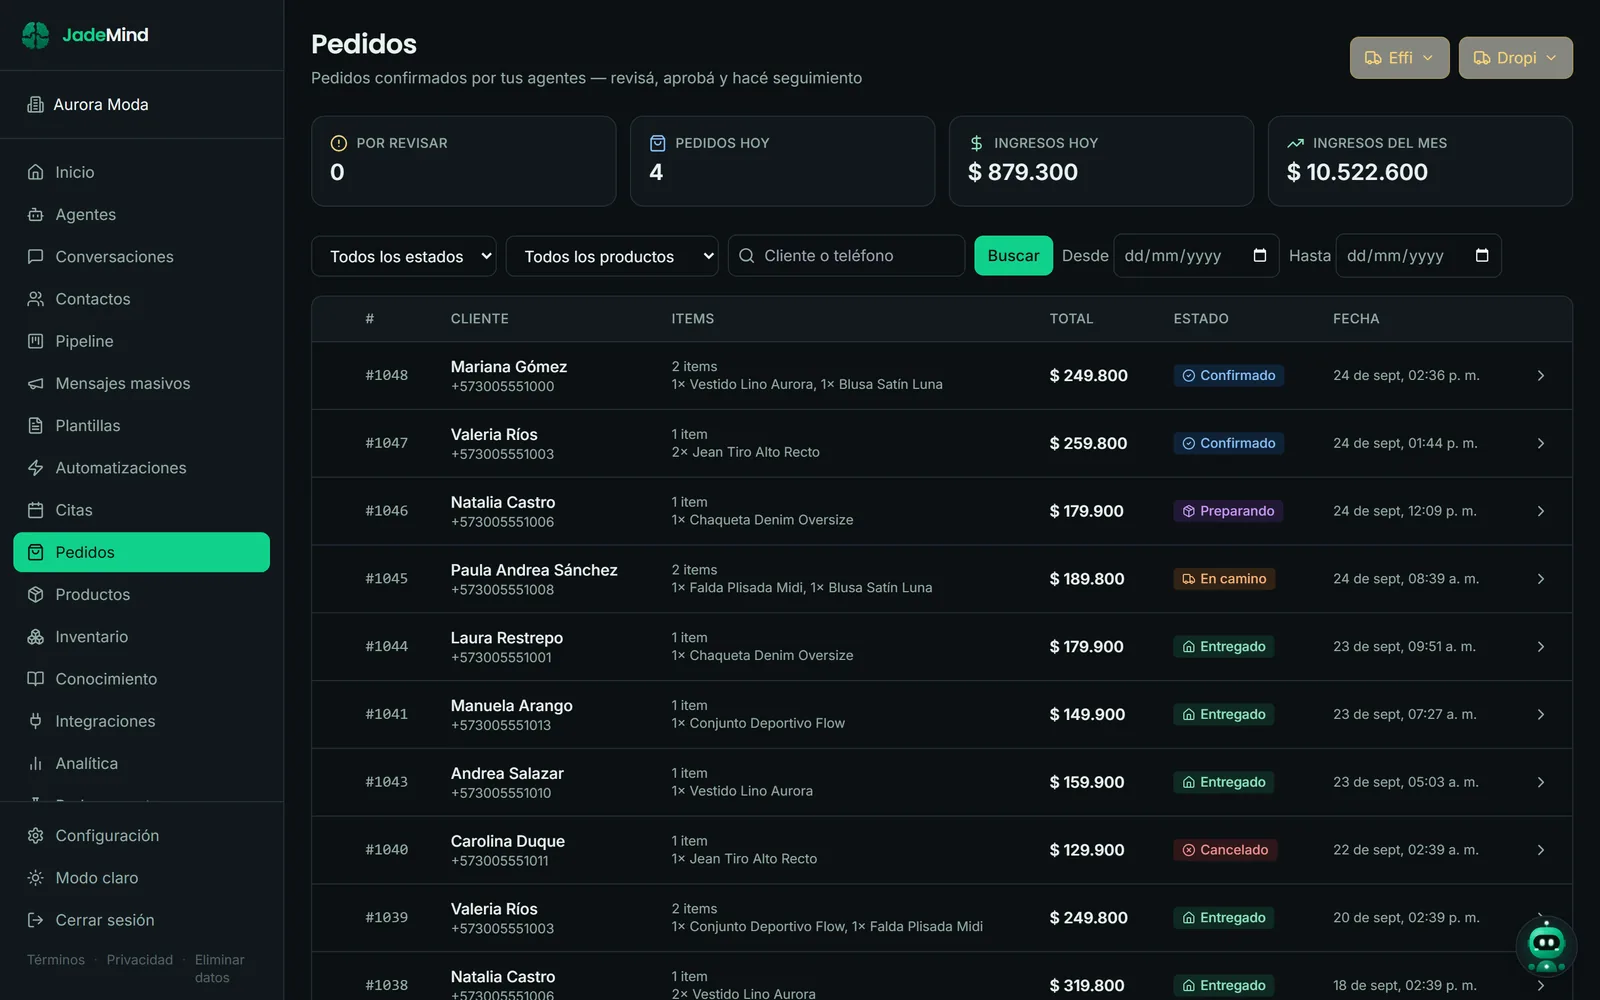
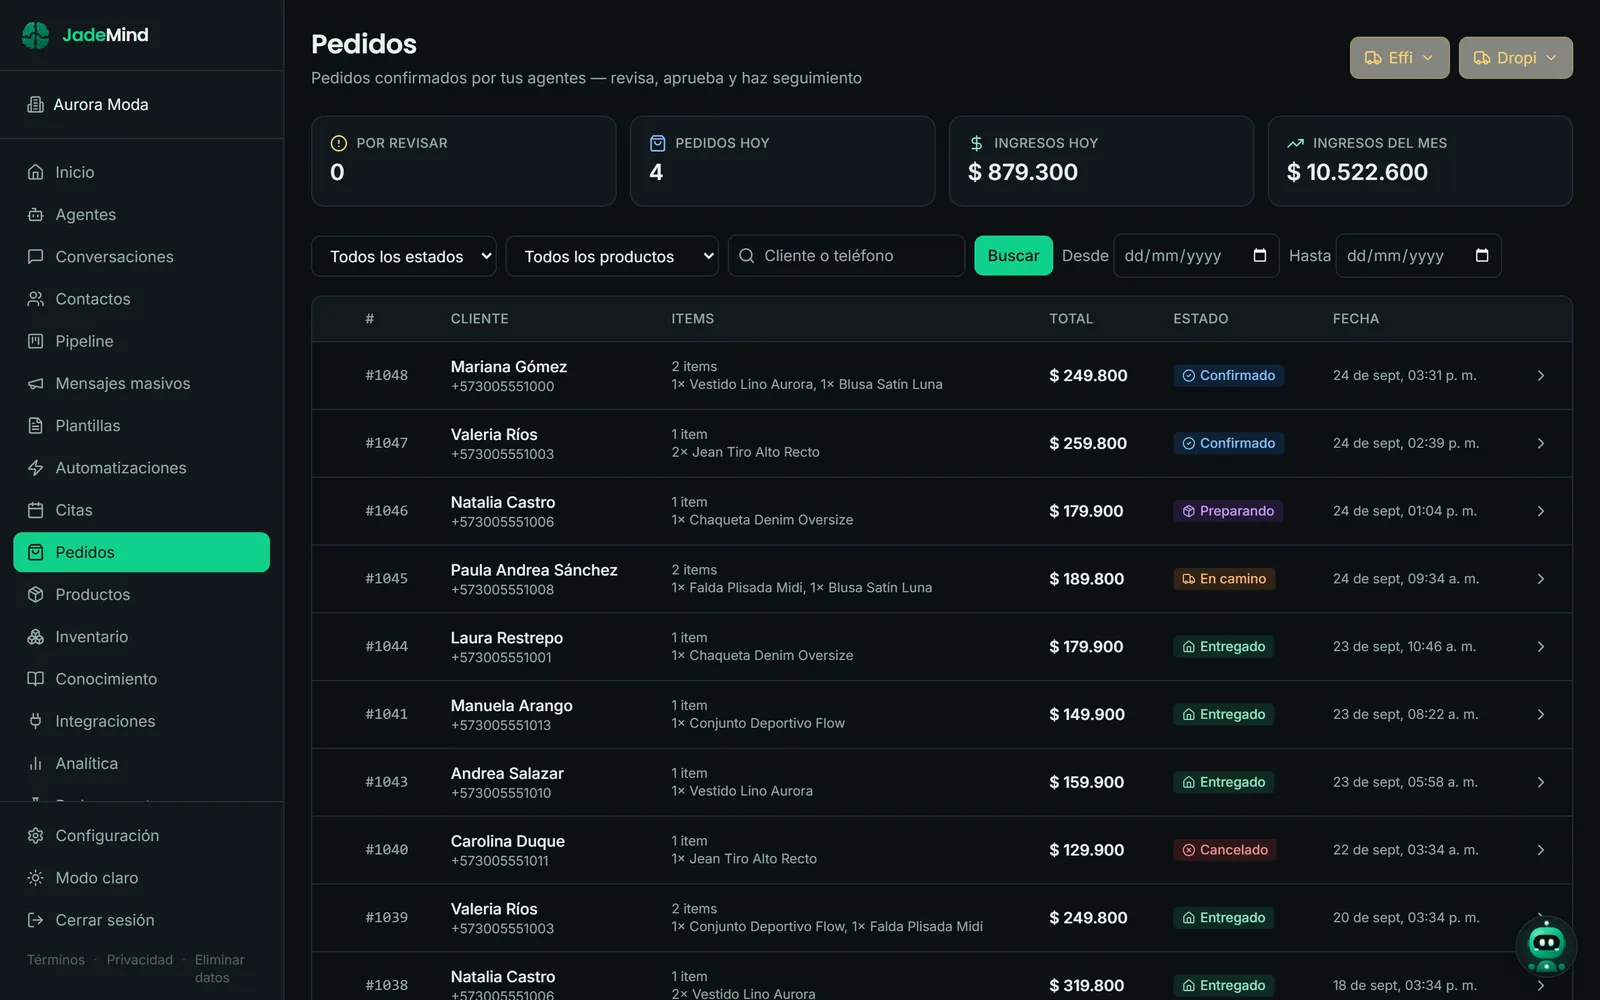
chore: capturas del panel con los textos en tuteo
el crm paso sus textos a tuteo; se rehicieron con scripts/capturas-panel.mjs
y llevan ?v=2 porque assets/ se sirve con 7 dias de cache.

diff --git a/index.html b/index.html
@@ -408,10 +408,10 @@
               </div>
             </div>
             <div class="panel-stage">
-              <img class="panel-shot is-active" data-panel-shot="inicio" src="assets/panel/inicio.webp" width="1600" height="1000" alt="Inicio del panel de JadeMind con conversaciones, mensajes, pedidos y citas del mes y el resumen de hoy" loading="lazy" decoding="async">
-              <img class="panel-shot" data-panel-shot="conversaciones" src="assets/panel/conversaciones.webp" width="1600" height="1000" alt="Bandeja de conversaciones de JadeMind con un chat de WhatsApp donde el agente toma un pedido" loading="lazy" decoding="async">
-              <img class="panel-shot" data-panel-shot="pedidos" src="assets/panel/pedidos.webp" width="1600" height="1000" alt="Lista de pedidos de JadeMind con estado, total y fecha de cada venta" loading="lazy" decoding="async">
-              <img class="panel-shot" data-panel-shot="agenda" src="assets/panel/agenda.webp" width="1600" height="1000" alt="Agenda semanal de JadeMind con las citas agendadas por el agente" loading="lazy" decoding="async">
+              <img class="panel-shot is-active" data-panel-shot="inicio" src="assets/panel/inicio.webp?v=2" width="1600" height="1000" alt="Inicio del panel de JadeMind con conversaciones, mensajes, pedidos y citas del mes y el resumen de hoy" loading="lazy" decoding="async">
+              <img class="panel-shot" data-panel-shot="conversaciones" src="assets/panel/conversaciones.webp?v=2" width="1600" height="1000" alt="Bandeja de conversaciones de JadeMind con un chat de WhatsApp donde el agente toma un pedido" loading="lazy" decoding="async">
+              <img class="panel-shot" data-panel-shot="pedidos" src="assets/panel/pedidos.webp?v=2" width="1600" height="1000" alt="Lista de pedidos de JadeMind con estado, total y fecha de cada venta" loading="lazy" decoding="async">
+              <img class="panel-shot" data-panel-shot="agenda" src="assets/panel/agenda.webp?v=2" width="1600" height="1000" alt="Agenda semanal de JadeMind con las citas agendadas por el agente" loading="lazy" decoding="async">
             </div>
           </div>
 
